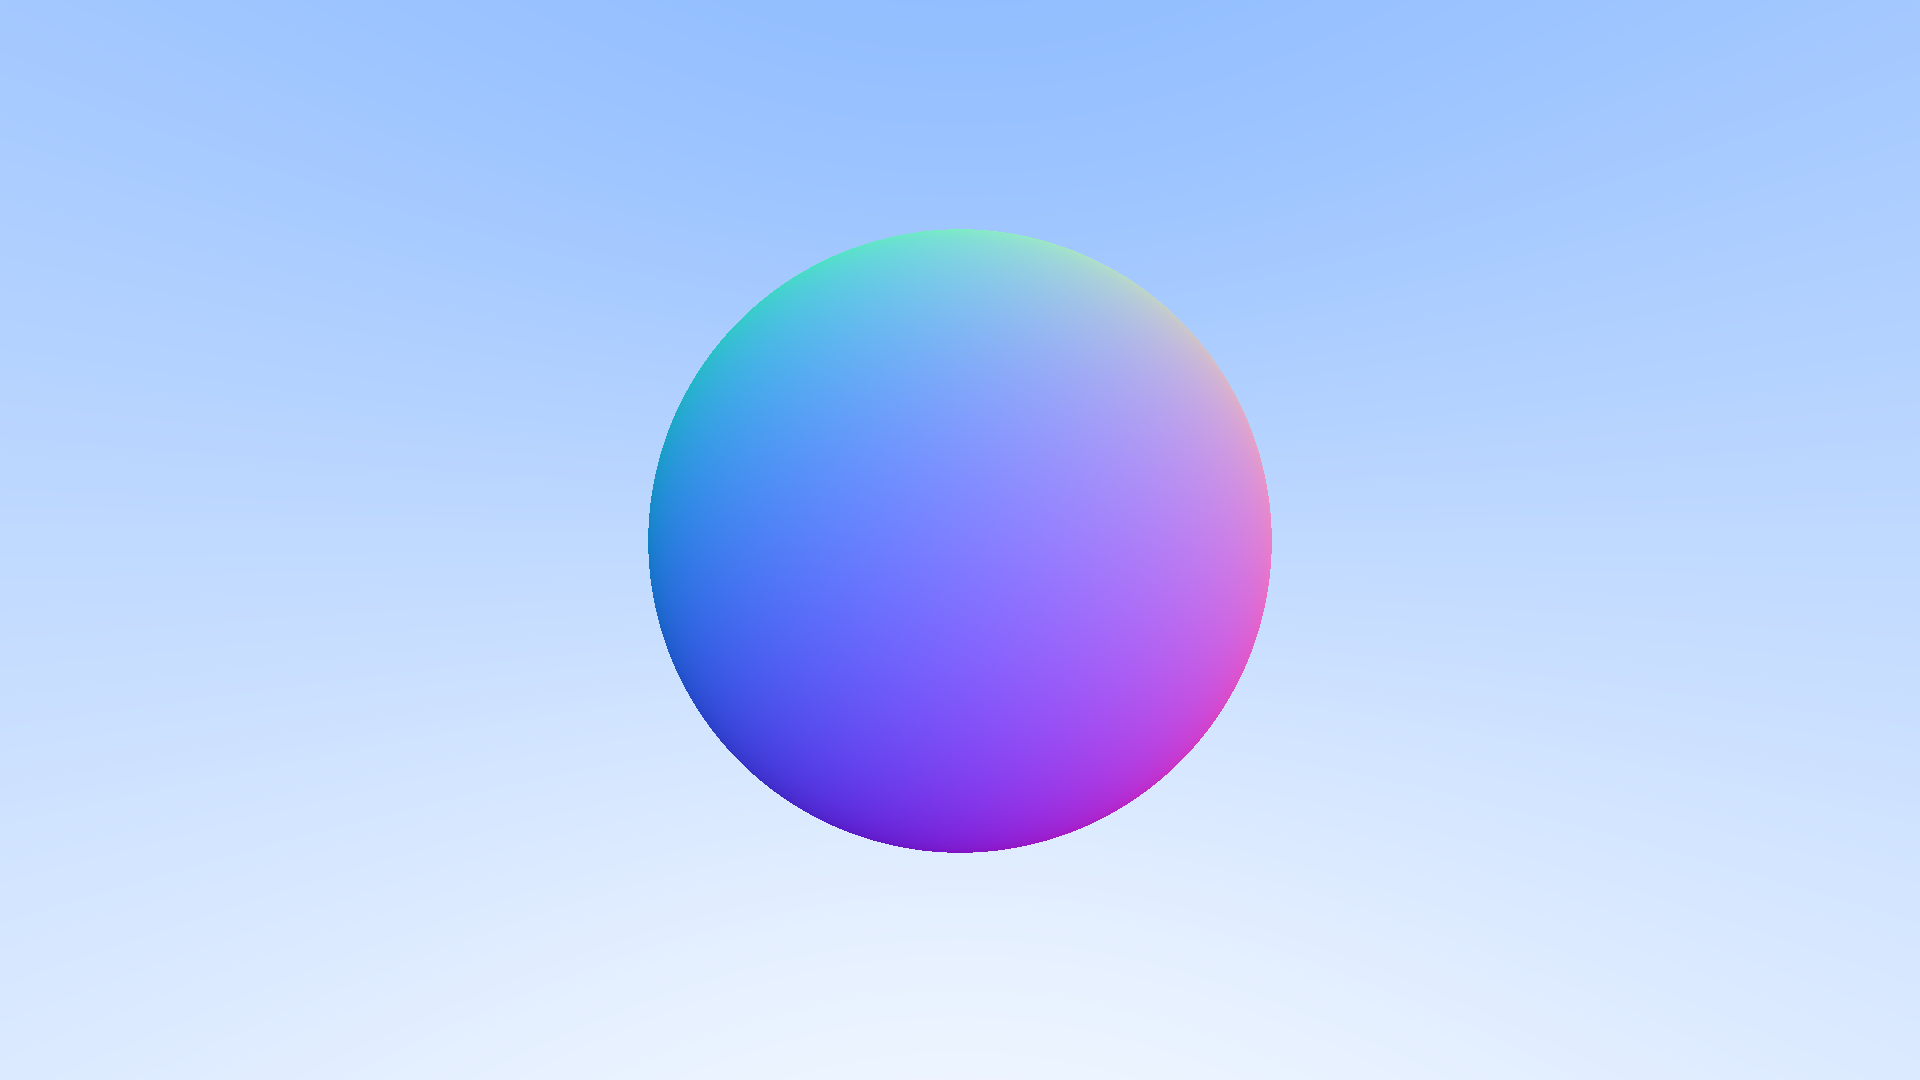
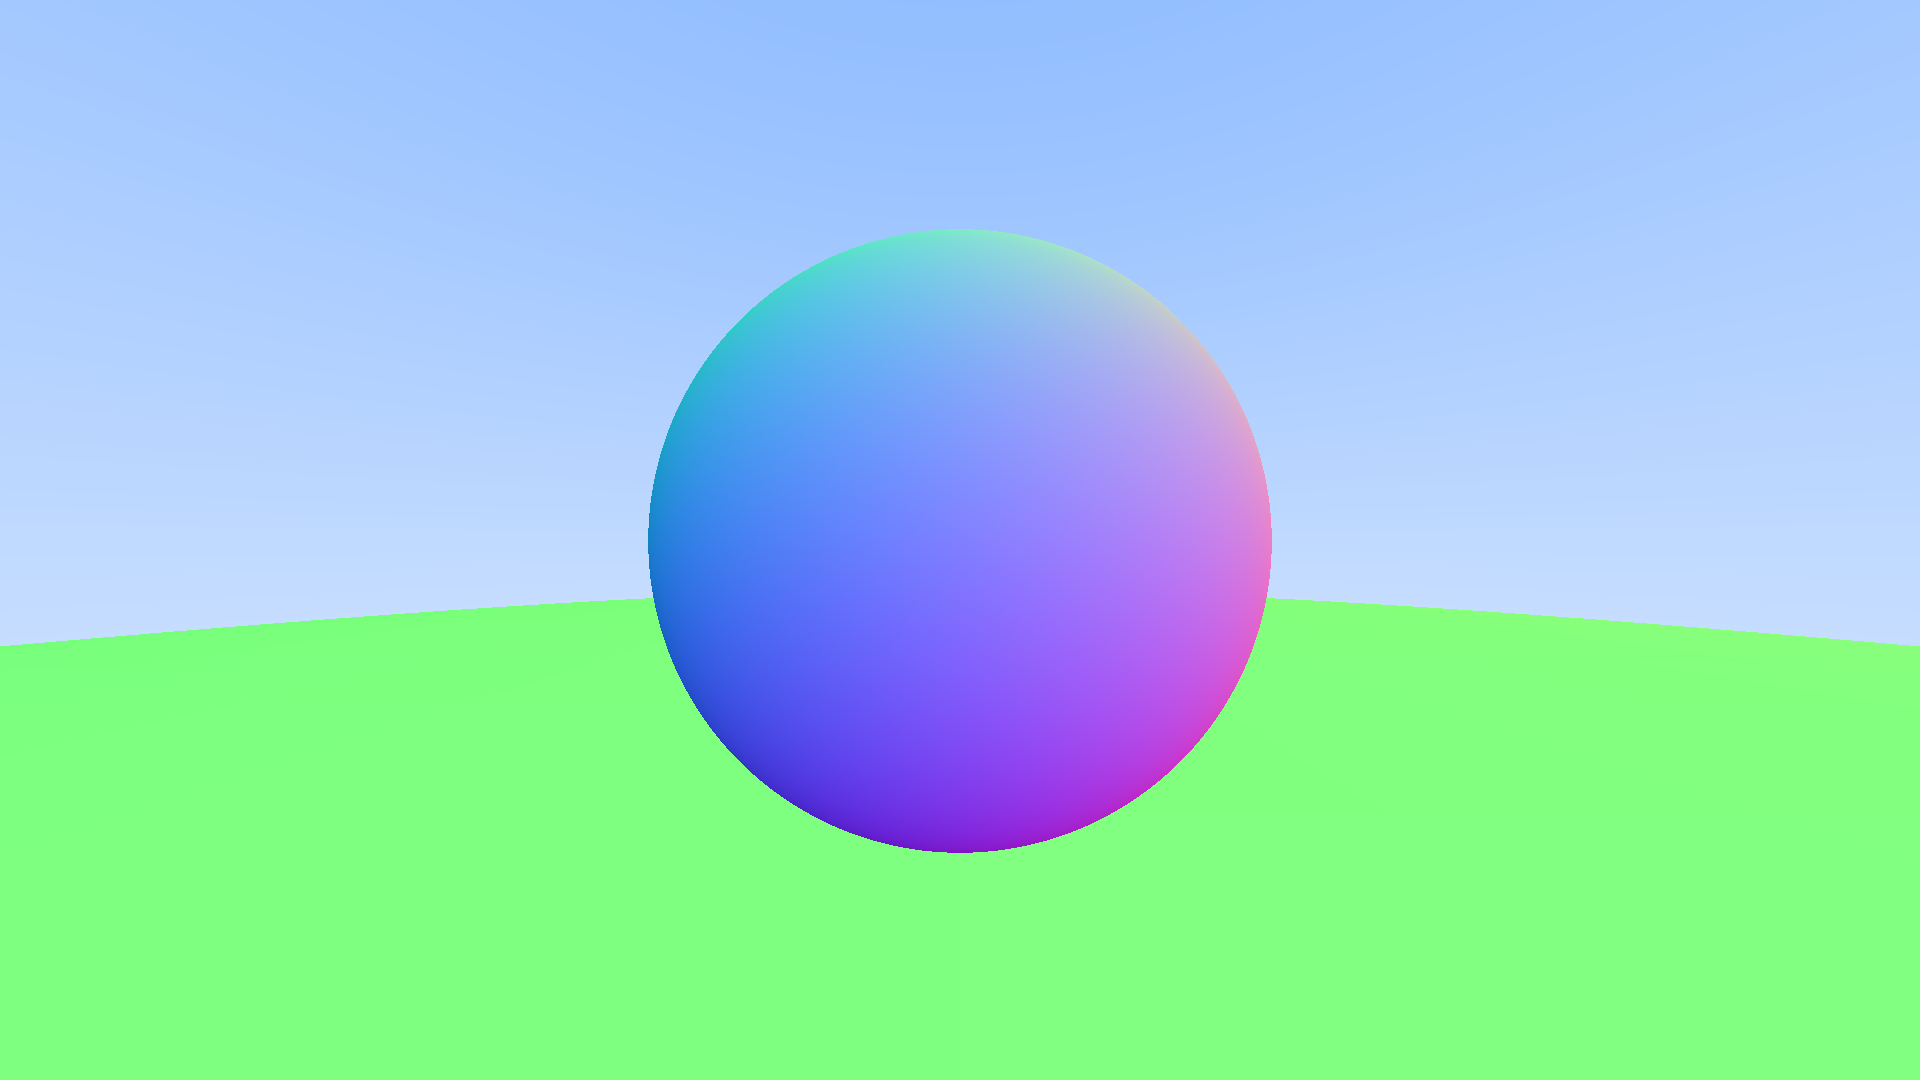
scene abstraction, hittable interface, tie everything into renderer class

diff --git a/StaticTracer/StaticTracer/src/Graphics/Renderer.cpp b/StaticTracer/StaticTracer/src/Graphics/Renderer.cpp
@@ -4,63 +4,15 @@
 #include <Graphics/Pixel.h>
 #include <Math/vec3.h>
 #include <Graphics/Ray.h>
-
-math::vec3 skyboxColor(pt::Ray const& ray)
-{
-  static const math::vec3 skyColor{ 0.5f, 0.7f, 1.0f };
-  static const math::vec3 horizonColor{ 1.0f };
-
-  math::vec3 direction{ math::normalize(ray.getDirection()) };
-  float t{ 0.5f * (direction.y + 1.0f) };
-  return math::lerp(skyColor, horizonColor, 1.0f - t);
-}
-
-/// @brief  Test ray vs sphere
-/// @return Return hit time 't' for ray
-float hitSphere(math::vec3 const& center, float radius, pt::Ray const& ray)
-{
-  // Point from vector: Q + t * vector
-  // Sphere formula: 
-  // [C-P]*[C-P} = r^2
-  // [C- (Q+tv) ]*[C- (Q+tv) ] = r^2
-  // {t^2 * v*v} + {-2tv(C-Q)} + {(C-Q)^2 - r^2} = 0
-  //     a              b               c
-
-  math::vec3 CQvec{ center - ray.getOrigin() };
-
-  // Quadratic equation formula
-  float a{ math::dot(ray.getDirection(), ray.getDirection()) };
-  float b{ -2.0f * math::dot(ray.getDirection(), CQvec) };
-  float c{ math::dot(CQvec, CQvec) - radius * radius };
-
-  float discriminant{ b*b - 4*a*c };
-  if (discriminant < 0.0f)
-    return -FLT_MAX;
-  else
-    return (-b - std::sqrtf(discriminant)) / (2*a);
-}
-
-math::vec3 traceRay(pt::Ray const& ray)
-{
-  static const math::vec3 sphereCenter{ 0,0,-1 };
-  static const float radius{ 0.5 };
-
-  float t{ hitSphere(sphereCenter, radius, ray) };
-  if (t > 0.0) 
-  {
-    math::vec3 pointOnSphere{ ray.at(t) };
-    math::vec3 normal{ math::normalize(pointOnSphere - sphereCenter) };
-    return 0.5f * (normal + 1.0f);
-  }
-  else
-  {
-    return skyboxColor(ray);
-  }
-}
+#include <Graphics/Scene.h>
+#include <Graphics/Sphere.h>
 
 pt::Renderer::Renderer(Window _window) 
   : window{ _window }, framebuffer{ window.getWidth(), window.getHeight() }
-{}
+{
+  scene.add(std::make_shared<pt::Sphere>(math::vec3{ 0,0,-1 }, 0.5f));
+  scene.add(std::make_shared<pt::Sphere>(math::vec3{ 0,-100.5f,-1.0f }, 100.0f));
+}
 
 void pt::Renderer::render()
 {
@@ -104,7 +56,7 @@ void pt::Renderer::render()
       math::vec3 pixelCenter{ pixel00World + (static_cast<float>(x) * pixelDeltaX) - (static_cast<float>(y) * pixelDeltaY) };
       math::vec3 rayDirection{ pixelCenter - cameraPosition };
       pt::Ray ray{ cameraPosition, rayDirection };
-      Pixel pixel{ traceRay(ray) };
+      Pixel pixel{ scene.traceRay(ray) };
       framebuffer.setPixel(x, y, pixel);
     }
   }

diff --git a/StaticTracer/StaticTracer/src/Graphics/Sphere.cpp b/StaticTracer/StaticTracer/src/Graphics/Sphere.cpp
@@ -1,0 +1,43 @@
+#include <Graphics/Sphere.h>
+#include <Graphics/Ray.h>
+#include <Graphics/HitRecord.h>
+
+pt::Sphere::Sphere(math::vec3 const& center, float radius) : center{ center }, radius{ radius }
+{}
+
+bool pt::Sphere::hit(Ray const& ray, float tMin, float tMax, HitRecord& hitRecord) const
+{
+  // Point from vector: Q + t * vector
+  // Sphere formula: 
+  // [C-P]*[C-P} = r^2
+  // [C- (Q+tv) ]*[C- (Q+tv) ] = r^2
+  // {t^2 * v*v} + {-2tv(C-Q)} + {(C-Q)^2 - r^2} = 0
+  //     a              b               c
+
+  math::vec3 CQvec{ center - ray.getOrigin() };
+
+  // Quadratic equation formula
+  float a{ math::lengthSQ(ray.getDirection()) };
+  float bPrime{ math::dot(ray.getDirection(), CQvec) };
+  float c{ math::lengthSQ(CQvec) - radius * radius };
+
+  float discriminant{ bPrime * bPrime - a * c };
+  if (discriminant < 0.0f)
+    return false;
+  
+  float sqrtDiscriminant{ std::sqrtf(discriminant) };
+  float root{ (bPrime - sqrtDiscriminant) / a };
+  if (root <= tMin || tMax <= root)
+  {
+    root = (bPrime + sqrtDiscriminant) / a;
+    if (root <= tMin || tMax <= root)
+      return false;
+  }
+  
+  hitRecord.t = root;
+  hitRecord.point = ray.at(hitRecord.t);
+  math::vec3 outwardNormal{ (hitRecord.point - center) / radius };
+  hitRecord.setFaceNormal(ray, outwardNormal);
+
+  return true;
+}

diff --git a/StaticTracer/StaticTracer/src/Graphics/Scene.cpp b/StaticTracer/StaticTracer/src/Graphics/Scene.cpp
@@ -1,0 +1,47 @@
+#include <Graphics/Scene.h>
+#include <Graphics/HitRecord.h>
+#include <Common.h>
+#include <Graphics/Ray.h>
+
+void pt::Scene::add(std::shared_ptr<IHittable> object)
+{
+  objects.emplace_back(object);
+}
+
+void pt::Scene::clear()
+{
+  objects.clear();
+}
+
+math::vec3 pt::Scene::traceRay(Ray const& ray) const
+{
+  HitRecord hitRecord{};
+  if (hit(ray, 0.001f, utils::infinity, hitRecord))
+  {
+    // map range from [-1,1] to [0,1] to visualize normals
+    return 0.5f * (hitRecord.normal + math::vec3{1.0f});
+  }
+
+  // Return skybox color
+  float t{ 0.5f * (math::normalize(ray.getDirection()).y + 1.0f) };
+  return math::lerp(skyColor, horizonColor, 1.0f - t);
+}
+
+bool pt::Scene::hit(Ray const& ray, float tMin, float tMax, HitRecord& hitRecord) const
+{
+  HitRecord tempRecord;
+  bool anyHit{};
+  float closestHit{tMax};
+
+  for (auto const& object : objects)
+  {
+    if (object->hit(ray, tMin, closestHit, tempRecord))
+    {
+      anyHit = true;
+      closestHit = tempRecord.t;
+      hitRecord = tempRecord;
+    }
+  }
+
+  return anyHit;
+}

diff --git a/StaticTracer/StaticTracer/include/Graphics/Scene.h b/StaticTracer/StaticTracer/include/Graphics/Scene.h
@@ -1,0 +1,28 @@
+#ifndef SCENE
+#define SCENE
+
+#include <Graphics/IHittable.h>
+#include <memory>
+#include <vector>
+#include <Math/vec3.h>
+namespace pt
+{
+  class Scene : public IHittable
+  {
+  public:
+    void add(std::shared_ptr<IHittable> object);
+    void clear();
+    math::vec3 traceRay(Ray const& ray) const;
+
+  private:
+    bool hit(Ray const& ray, float tMin, float tMax, HitRecord& hitRecord) const override;
+
+  private:
+    math::vec3 skyColor{0.5f, 0.7f, 1.0f};
+    math::vec3 horizonColor{1.0f};
+
+    std::vector<std::shared_ptr<IHittable>> objects;
+  };
+}
+
+#endif // !SCENE

diff --git a/StaticTracer/StaticTracer/include/Graphics/HitRecord.h b/StaticTracer/StaticTracer/include/Graphics/HitRecord.h
@@ -1,0 +1,25 @@
+#ifndef HITRECORD
+#define HITRECORD
+
+#include <Math/vec3.h>
+#include <Graphics/Ray.h>
+
+namespace pt
+{
+  class HitRecord
+  {
+  public:
+    math::vec3 point;
+    math::vec3 normal;
+    float t;
+    bool frontFace;
+
+    inline void setFaceNormal(Ray const& ray, math::vec3 const& outwardNormal)
+    {
+      frontFace = (math::dot(ray.getDirection(), outwardNormal) < 0.0f);
+      normal = frontFace ? outwardNormal : -outwardNormal;
+    }
+  };
+}
+
+#endif // !HITRECORD

diff --git a/StaticTracer/StaticTracer/include/Graphics/Sphere.h b/StaticTracer/StaticTracer/include/Graphics/Sphere.h
@@ -1,0 +1,24 @@
+#ifndef SPHERE
+#define SPHERE
+
+#include <Graphics/IHittable.h>
+#include <Math/vec3.h>
+
+namespace pt
+{
+  class Ray;
+  class HitRecord;
+
+  class Sphere : public IHittable
+  {
+  public:
+    Sphere(math::vec3 const& center, float radius);
+    virtual bool hit(Ray const& ray, float tMin, float tMax, HitRecord& hitRecord) const override;
+
+  private:
+    math::vec3 center;
+    float radius;
+  };
+}
+
+#endif // !SPHERE

diff --git a/StaticTracer/StaticTracer/include/Common.h b/StaticTracer/StaticTracer/include/Common.h
@@ -1,11 +1,17 @@
 #ifndef COMMON
 #define COMMON
 
-#include <glm/glm.hpp>
+#include <limits>
+#include <numbers>
 
-namespace pt
+namespace pt::utils
 {
+  constexpr float infinity = std::numeric_limits<float>::infinity();
 
+  inline float degreesToRadians(float degrees)
+  {
+    return degrees * static_cast<float>(std::numbers::pi) / 180.0f;
+  }
 }
 
 #endif // ! COMMON

diff --git a/StaticTracer/StaticTracer/include/Graphics/IHittable.h b/StaticTracer/StaticTracer/include/Graphics/IHittable.h
@@ -1,0 +1,16 @@
+#ifndef IHITTABLE
+#define IHITTABLE
+
+namespace pt
+{
+  class Ray;
+
+  class IHittable
+  {
+  public:
+    virtual ~IHittable() = default;
+    virtual bool hit(Ray const& ray, float tMin, float tMax, class HitRecord& record) const = 0;
+  };
+}
+
+#endif // !IHITTABLE

diff --git a/StaticTracer/StaticTracer/include/Graphics/Renderer.h b/StaticTracer/StaticTracer/include/Graphics/Renderer.h
@@ -3,6 +3,7 @@
 
 #include <Core/Window.h>
 #include <Graphics/Framebuffer.h>
+#include <Graphics/Scene.h>
 
 namespace pt
 {
@@ -16,6 +17,7 @@ namespace pt
   private:
     Window window;
     Framebuffer framebuffer;
+    Scene scene;
   };
 }
 
